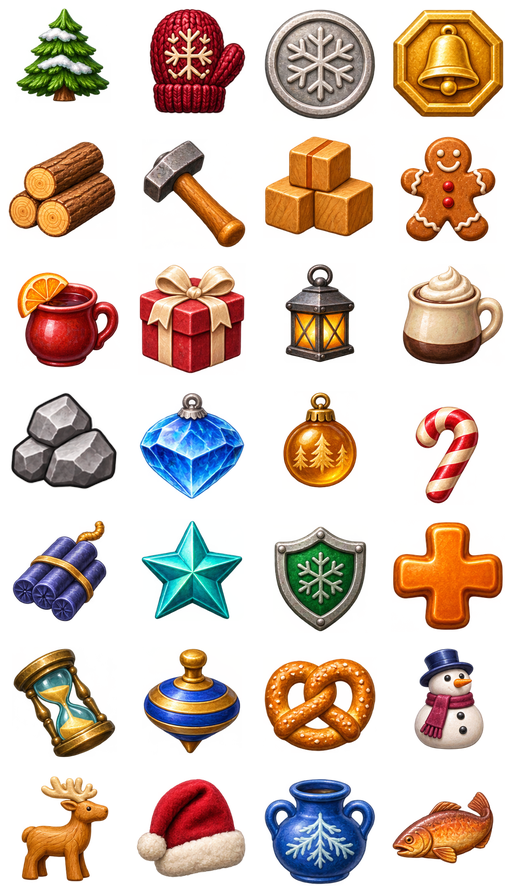
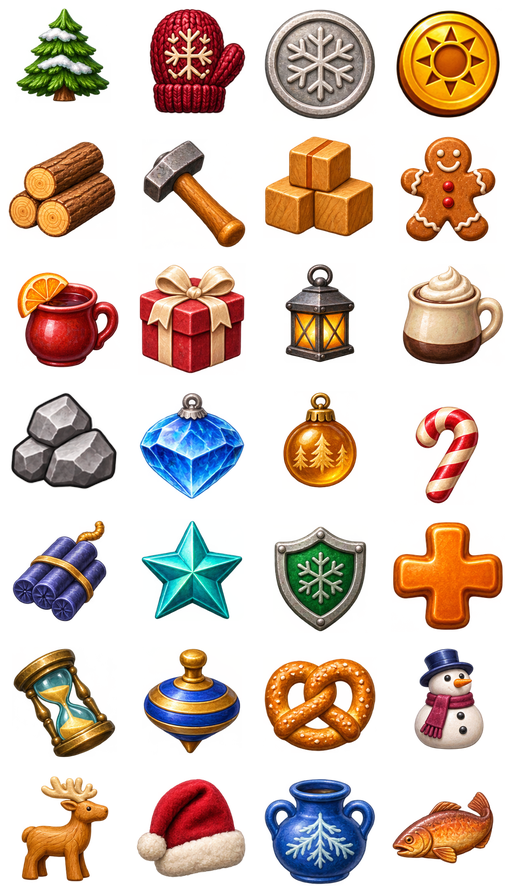
Share the Relic Rush Sun coin with Christmas Market

Changed region(s): [[0.75, 0.0, 1.0, 0.1562]]

diff --git a/docs/cradle-of-rome-reference/gem-correspondence.html b/docs/cradle-of-rome-reference/gem-correspondence.html
@@ -205,8 +205,8 @@
           <tr class="comparison" data-status="same" data-rome-type="4">
             <th scope="row"><div class="tile"><span class="icon rome" style="--col:3;--row:0" aria-hidden="true"></span><div><strong>Gold coin</strong><small>5 Gold · #04</small></div></div></th>
             <td><div class="tile"><span class="icon relic" style="--col:0;--row:0" aria-hidden="true"></span><div><strong>Sun coin</strong><small>5 Coins · opening</small></div></div></td>
-            <td><div class="tile"><span class="icon market" style="--col:3;--row:0" aria-hidden="true"></span><div><strong>Gold bell coin</strong><small>Gold · 5 Tokens</small><small>Opening</small></div></div></td>
-            <td><span class="status same">Same motif</span><p>A gold coin with a sun emblem.</p></td>
+            <td><div class="tile"><span class="icon market" style="--col:3;--row:0" aria-hidden="true"></span><div><strong>Sun coin</strong><small>Gold · 5 Tokens</small><small>Opening</small></div></div></td>
+            <td><span class="status same">Same motif</span><p>Both games share the same gold Sun coin artwork.</p></td>
           </tr>
           <tr class="comparison" data-status="same" data-rome-type="5">
             <th scope="row"><div class="tile"><span class="icon rome" style="--col:4;--row:0" aria-hidden="true"></span><div><strong>Water bucket</strong><small>3 Food · #05</small></div></div></th>
@@ -315,8 +315,8 @@
           <tr class="comparison" data-status="same" data-rome-type="4">
             <th scope="row"><div class="tile"><span class="icon rome" style="--col:3;--row:1" aria-hidden="true"></span><div><strong>Gold coin</strong><small>5 Gold · #04</small></div></div></th>
             <td><div class="tile"><span class="icon relic" style="--col:0;--row:0" aria-hidden="true"></span><div><strong>Sun coin</strong><small>5 Coins · opening</small></div></div></td>
-            <td><div class="tile"><span class="icon market" style="--col:3;--row:0" aria-hidden="true"></span><div><strong>Gold bell coin</strong><small>Gold · 5 Tokens</small><small>Opening</small></div></div></td>
-            <td><span class="status same">Same motif</span><p>A gold coin with a sun emblem.</p></td>
+            <td><div class="tile"><span class="icon market" style="--col:3;--row:0" aria-hidden="true"></span><div><strong>Sun coin</strong><small>Gold · 5 Tokens</small><small>Opening</small></div></div></td>
+            <td><span class="status same">Same motif</span><p>Both games share the same gold Sun coin artwork.</p></td>
           </tr>
           <tr class="comparison" data-status="role" data-rome-type="5">
             <th scope="row"><div class="tile"><span class="icon rome" style="--col:4;--row:1" aria-hidden="true"></span><div><strong>Meat</strong><small>3 Food · #05</small></div></div></th>

diff --git a/games/christmas-market/docs/market-pieces.md b/games/christmas-market/docs/market-pieces.md
@@ -3,11 +3,11 @@
 The [side-by-side correspondence sheet](../../../docs/cradle-of-rome-reference/gem-correspondence.html)
 compares the actual art and yields in Cradle of Rome, Relic Rush and Christmas
 Market. Bellmere uses three wallet slots in save order: **Tokens**, **Treats**
-and **Materials**. Gold bell coins, cocoa and bundled pine identify those
+and **Materials**. Sun coins, cocoa and bundled pine identify those
 totals on the board, in town, and in prices and results.
 
 The opening has five kinds: a green snowy fir, a cranberry knitted mitten,
-a round silver coin, an octagonal gold coin and an ivory-striped candy cane.
+a silver snowflake coin, a gold Sun coin and an ivory-striped candy cane.
 The mitten has opaque red wool and a cream snowflake. Mulled wine takes the candy
 cane's place. The bakery's brown gingerbread man and the kiosk's ivory cocoa
 mug follow in the same Treats slot. The stable replaces the mitten with a
@@ -73,3 +73,12 @@ new premium good replaces the previous one in the gold coin slot.
 | --- | --- | --- |
 | 480 × 900 | [Blue mitten](screenshots/review/red-mitten/opening-480-before.jpg) | [Cranberry mitten](screenshots/review/red-mitten/opening-480.jpg) |
 | 390 × 844 | [Blue mitten](screenshots/review/red-mitten/opening-390-before.jpg) | [Cranberry mitten](screenshots/review/red-mitten/opening-390.jpg) |
+
+## Shared Sun coin review
+
+| Opening board and wallet | Before | After |
+| --- | --- | --- |
+| 480 × 900 | [Bell coin](screenshots/review/red-mitten/opening-480.jpg) | [Sun coin](screenshots/review/sun-coin/opening-480.jpg) |
+| 390 × 844 | [Bell coin](screenshots/review/red-mitten/opening-390.jpg) | [Sun coin](screenshots/review/sun-coin/opening-390.jpg) |
+
+[Sun coin on the stable's price card](screenshots/review/sun-coin/stable.jpg)

diff --git a/games/christmas-market/docs/asset-catalogue.md b/games/christmas-market/docs/asset-catalogue.md
@@ -164,6 +164,9 @@ square atlas layout and reauthors the mitten in cranberry wool with a cream
 snowflake. The [full ImageGen prompt](../art/market-goods/cranberry-mitten-prompt.txt)
 records the edit. The new crop registers into `market-1`.
 [Compare opening boards](market-pieces.md#red-mitten-review).
+The gold Sun coin uses the first cell of the [Relic Rush campaign atlas](../../relic-rush/art/registered/campaign-pieces.png).
+The board, wallet, prices and results all use this shared artwork.
+[Compare the coin on the opening board and price card](market-pieces.md#shared-sun-coin-review).
 The [registration record](../art/market-goods/registration.json) saves each
 source crop, proportional fit, offset and alpha-weighted center in its 128 px
 slot. The crop takes the object's solid bounds with four pixels of edge
@@ -175,7 +178,7 @@ Every center of opacity is within half a pixel of the slot center on both axes.
 | 0 | Snow-dusted fir | Evergreen | Score at the opening. |
 | 1 | Knitted mitten | Cranberry red | Opening score piece until the stable. |
 | 2 | Silver snowflake coin | Silver | +3 Tokens. |
-| 3 | Gold bell coin | Gold | +5 Tokens and the Tokens wallet icon. |
+| 3 | Sun coin | Gold | +5 Tokens and the Tokens wallet icon. Shared artwork with Relic Rush. |
 | 4 | Bundled pine | Chestnut brown | +5 Materials from the lumber workshop and the Materials wallet icon. |
 | 5 | Farrier's hammer | Dark steel and oiled wood | +3 Hammer charge from the stable. |
 | 6 | Toy blocks | Honey wood | +6 Tokens from the later Toymaker's workshop. |

diff --git a/games/christmas-market/README.md b/games/christmas-market/README.md
@@ -61,7 +61,7 @@ each sprite. See the [placement captures](docs/review/placement-guides/README.md
 
 ## Market economy
 
-Silver star coins pay 3 Tokens and gold bell coins pay 5. Holly, blue mittens and candy canes earn score.
+Silver snowflake coins pay 3 Tokens and gold Sun coins pay 5. Snowy firs, knitted mittens and candy canes earn score on the opening board.
 The Welcome arch serves spiced cider for Treats. The Lumber workshop introduces brown pine bundles tied with blue ribbon for Materials.
 The bakery and cocoa kiosk upgrade the red Treats piece. Each matched piece pays its own value. Each win
 banks the goods cleared on the board. Regions and decorations open by
